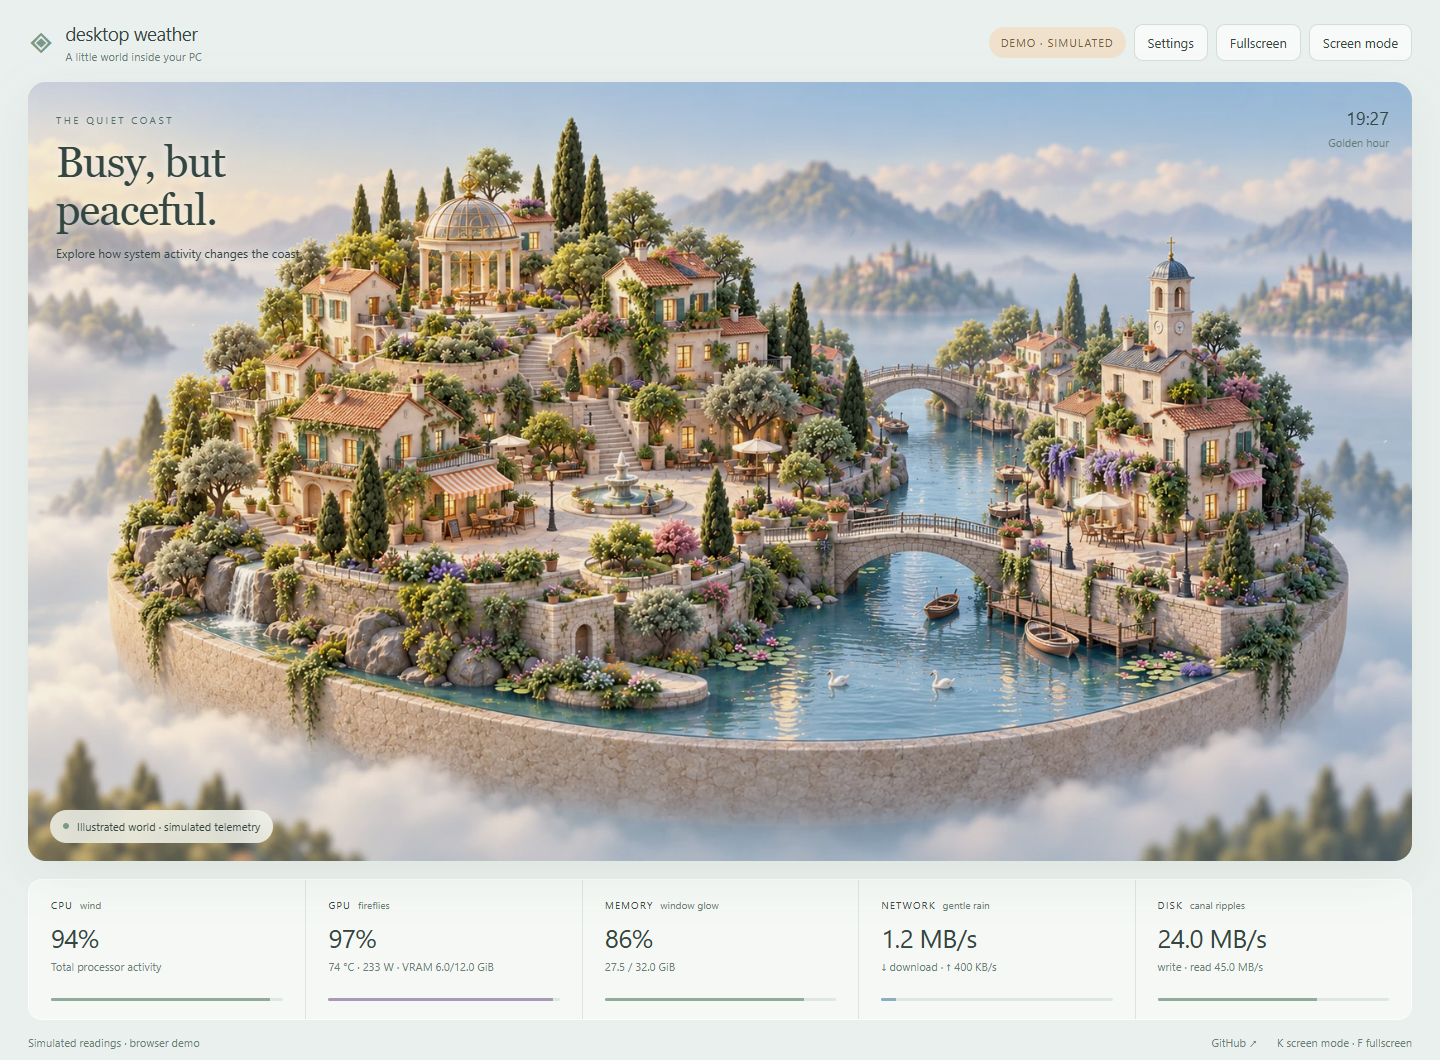
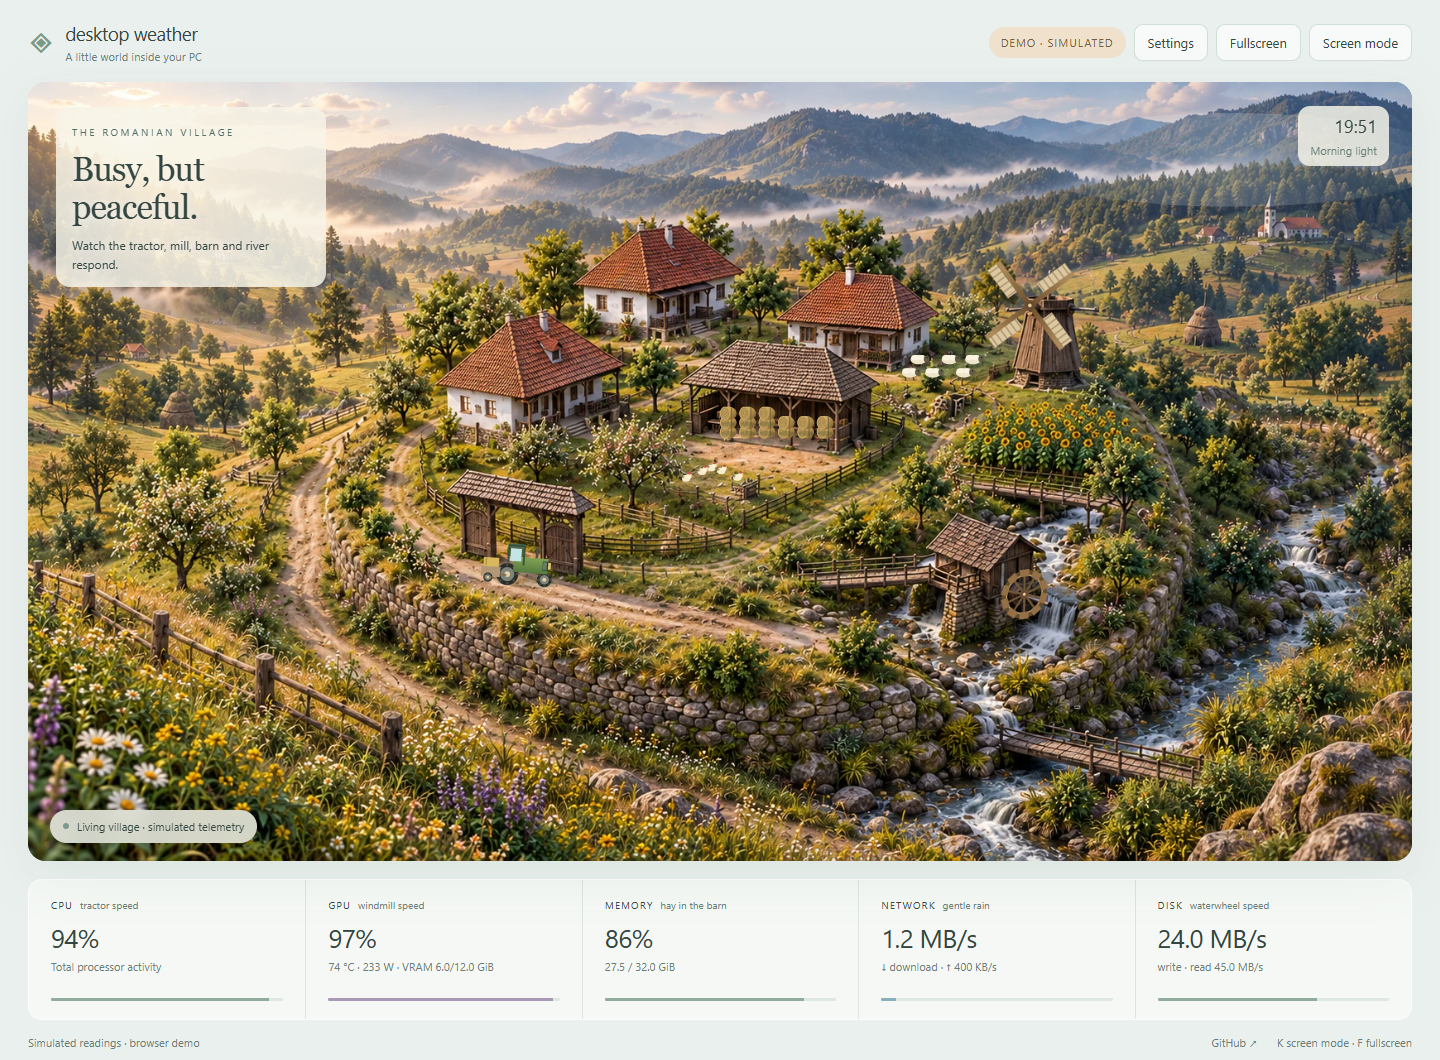
Add animated Romanian countryside with day and night scenes

diff --git a/public/app.js b/public/app.js
@@ -1,4 +1,5 @@
 import { clamp, number, formatPercent, formatRate, demoSnapshot, sceneActivity } from './model.mjs';
+import { createRuralRenderer } from './rural.mjs';
 const $ = id => document.getElementById(id);
 const params = new URLSearchParams(location.search);
 const local = ['localhost', '127.0.0.1'].includes(location.hostname);
@@ -19,8 +20,7 @@ let inScreenMode = params.get('screen') === '1', fetchBusy = false;
 const media = matchMedia('(prefers-reduced-motion: reduce)');
 const scene = $('scene'), canvas = $('weather'), context = canvas.getContext('2d');
 let width = 1, height = 1, lastDraw = 0, frameCount = 0;
-const particles = Array.from({ length: 80 }, (_, i) => ({ x: ((i * 47 + 17) % 101) / 101, y: ((i * 31 + 3) % 97) / 97, phase: i * 1.7 }));
-const windows = [[.232,.311],[.225,.33],[.264,.369],[.266,.397],[.46,.289],[.465,.32],[.498,.363],[.479,.393],[.217,.466],[.218,.493],[.321,.54],[.358,.507],[.408,.515],[.702,.499],[.804,.457],[.824,.431],[.835,.488],[.806,.601],[.776,.584],[.771,.519]];
+const rural = createRuralRenderer(context, scenePoint, () => Math.min(width / 1672, height / 941));
 
 function persist() {
   try { localStorage.setItem('desktop-weather-settings', JSON.stringify({ light: settings.light, quality: settings.quality, rainScale: settings.rainScale, gpuIndex: settings.gpuIndex, showMetrics: settings.showMetrics })); } catch { }
@@ -45,6 +45,8 @@ function applyLight() {
   const hour = new Date().getHours();
   const light = settings.light === 'auto' ? hour >= 7 && hour < 17 ? 'morning' : hour >= 17 && hour < 20 ? 'dusk' : 'night' : settings.light;
   scene.dataset.light = light;
+  const art = light === 'night' ? 'assets/romanian-night.webp' : 'assets/romanian-day.webp';
+  for (const id of ['village', 'landscape-fill']) if ($(id).getAttribute('src') !== art) $(id).src = art;
   $('clock').textContent = new Intl.DateTimeFormat(undefined, { hour: '2-digit', minute: '2-digit' }).format(new Date());
   $('time-label').textContent = { morning: 'Morning light', dusk: 'Golden hour', night: 'Moonlight' }[light];
 }
@@ -76,10 +78,10 @@ function renderReadings() {
   $('source').dataset.state = isDemo ? 'demo' : connection;
   $('source').textContent = isDemo ? 'Demo · simulated' : connection === 'live' ? 'Live · local' : connection === 'connecting' ? 'Connecting' : 'Unavailable';
   $('footer-source').textContent = isDemo ? 'Simulated readings · browser demo' : 'Local telemetry · no account · no cloud';
-  $('scene-status').textContent = isDemo ? 'Illustrated world · simulated telemetry' : connection === 'live' ? 'Connected to this computer · updates every 3s' : 'No live data · scenery resting';
+  $('scene-status').textContent = isDemo ? 'Living village · simulated telemetry' : connection === 'live' ? 'Connected to this computer · updates every 3s' : 'No live data · scenery resting';
   const title = isDemo ? { idle: 'A quiet morning.', game: 'A little more life.', render: 'Busy, but peaceful.', download: 'A passing shower.' }[settings.mode] : connection === 'live' ? 'Your PC, at its own pace.' : 'A small world.\nWaiting for a heartbeat.';
   $('scene-title').textContent = title;
-  $('scene-description').textContent = isDemo ? 'Explore how system activity changes the coast.' : connection === 'live' ? 'Real readings. Gentle changes. Everything stays local.' : 'Start the local companion to see real readings.';
+  $('scene-description').textContent = isDemo ? 'Watch the tractor, mill, barn and river respond.' : connection === 'live' ? 'Real readings. Gentle changes. Everything stays local.' : 'Start the local companion to see real readings.';
   const options = data?.gpu?.devices || [];
   const desired = options.length ? options.map(g => `${g.index}`).join(',') : 'none';
   if ($('gpu-device').dataset.devices !== desired) {
@@ -116,9 +118,8 @@ function resize() {
   lastDraw = 0;
 }
 function scenePoint(x, y) {
-  const imageRatio = 1672 / 941, scale = Math.max(width / 1672, height / 941);
-  const imageWidth = 1672 * scale, imageHeight = imageWidth / imageRatio;
-  return [x * imageWidth + (width - imageWidth) * (width < 480 ? .54 : .5), y * imageHeight + (height - imageHeight) * .5];
+  const scale = Math.min(width / 1672, height / 941);
+  return [x * 1672 * scale + (width - 1672 * scale) / 2, y * 941 * scale + (height - 941 * scale) / 2];
 }
 function draw(now) {
   requestAnimationFrame(draw);
@@ -126,44 +127,10 @@ function draw(now) {
   const still = settings.quality === 'still' || media.matches;
   const interval = still ? 1000 : settings.quality === 'eco' ? 1000 / 15 : 1000 / 30;
   if (now - lastDraw < interval) return;
-  const dt = Math.min(.1, (now - lastDraw) / 1000 || .03); lastDraw = now; frameCount++;
-  for (const key of Object.keys(activity)) activity[key] += (target[key] - activity[key]) * (still ? 1 : .06);
+  const dt = Math.min(.15, (now - lastDraw) / 1000 || .03); lastDraw = now; frameCount++;
+  for (const key of Object.keys(activity)) activity[key] += (target[key] - activity[key]) * (still ? 1 : .12);
   context.clearRect(0, 0, width, height);
-  const night = scene.dataset.light === 'night', time = still ? 0 : now / 1000;
-  // Anchored highlights follow the illustrated windows; they are not new 3D geometry.
-  windows.slice(0, Math.round(activity.glow * windows.length)).forEach(([x, y]) => {
-    const [px, py] = scenePoint(x, y), radius = Math.max(4, width * .009);
-    const gradient = context.createRadialGradient(px, py, 0, px, py, radius);
-    gradient.addColorStop(0, night ? '#ffd69ba0' : '#ffe6b54a'); gradient.addColorStop(1, '#ffd69b00');
-    context.fillStyle = gradient; context.fillRect(px - radius, py - radius, radius * 2, radius * 2);
-  });
-  const fireflies = Math.round(activity.fireflies * 22);
-  for (let i = 0; i < fireflies; i++) {
-    const p = particles[i], [x, y] = scenePoint(.22 + p.x * .64 + Math.sin(time * .25 + p.phase) * .015, .39 + p.y * .28 + Math.cos(time * .4 + p.phase) * .008);
-    context.fillStyle = night ? '#ffdf9fb0' : '#fff3cbad'; context.shadowColor = '#eac187'; context.shadowBlur = night ? 9 : 3;
-    context.beginPath(); context.arc(x, y, 1.5 + Math.sin(time + p.phase) * .4, 0, Math.PI * 2); context.fill();
-  }
-  context.shadowBlur = 0;
-  if (activity.rain > .025) {
-    context.strokeStyle = night ? '#b7d4e258' : '#56879b46'; context.lineWidth = 1;
-    for (let i = 0; i < Math.round(activity.rain * 65); i++) {
-      const p = particles[i]; if (!still) p.y = (p.y + dt * (.14 + activity.rain * .08)) % 1;
-      const x = width * (.52 + p.x * .46), y = p.y * height;
-      context.beginPath(); context.moveTo(x, y); context.lineTo(x - 2 - activity.wind * 3, y + 7); context.stroke();
-    }
-  }
-  for (let i = 0; i < 3 + Math.round(activity.ripples * 12); i++) {
-    const p = particles[i + 30], [x, y] = scenePoint(.6 + p.x * .11, .64 + p.y * .16);
-    const phase = (time * (.2 + activity.ripples * .3) + p.phase) % 1;
-    context.strokeStyle = `rgba(223,239,230,${(1 - phase) * .25})`;
-    context.beginPath(); context.ellipse(x, y, 2 + phase * 12, 1 + phase * 3, 0, 0, Math.PI * 2); context.stroke();
-  }
-  // Soft floating seed motes express CPU-driven wind, never inferred temperature.
-  for (let i = 0; i < Math.round(activity.wind * 16); i++) {
-    const p = particles[i + 55], x = ((p.x + time * (.008 + activity.wind * .012)) % 1) * width;
-    const y = (.2 + p.y * .55 + Math.sin(time + p.phase) * .008) * height;
-    context.fillStyle = '#f7edc780'; context.beginPath(); context.ellipse(x, y, 2.2, 1, -.5, 0, Math.PI * 2); context.fill();
-  }
+  rural.render({activity,dt,time:still ? 0 : now / 1000,still,night:scene.dataset.light === 'night',width,height});
 }
 function toggleSettings() { $('settings').hidden = !$('settings').hidden; $('settings-button').setAttribute('aria-expanded', String(!$('settings').hidden)); }
 async function fullscreen() {
@@ -189,6 +156,6 @@ document.addEventListener('keydown', event => {
 document.addEventListener('visibilitychange', () => { if (!document.hidden) { lastDraw = 0; sample(); } });
 new ResizeObserver(resize).observe(scene);
 media.addEventListener('change', resize);
-window.desktopWeather = { get state() { return { mode: settings.mode, connection, activity: { ...target }, frames: frameCount }; } };
+window.desktopWeather = { get state() { return { mode: settings.mode, connection, activity: { ...target }, frames: frameCount, animation: rural.stats }; } };
 updateSettings(); screenMode(inScreenMode); renderReadings(); sample();
 setInterval(sample, 3000); requestAnimationFrame(draw);

diff --git a/public/index.html b/public/index.html
@@ -15,20 +15,21 @@
       <a class="brand" href="./"><span class="brand-mark" aria-hidden="true">◈</span><span>desktop weather<small>A little world inside your PC</small></span></a>
       <div class="toolbar-actions"><span id="source" class="status" role="status">Connecting</span><button id="settings-button" aria-expanded="false" aria-controls="settings">Settings</button><button id="fullscreen">Fullscreen</button><button id="hide-ui" title="Press K to restore controls">Screen mode</button></div>
     </header>
-    <section id="scene" class="scene" aria-label="A Mediterranean miniature village animated by system activity">
-      <img id="village" src="assets/village.webp" alt="A peaceful terraced village, gardens and footbridges around a blue canal" width="1672" height="941">
+    <section id="scene" class="scene" aria-label="A circular Romanian village animated by system activity">
+      <img id="landscape-fill" src="assets/romanian-day.webp" alt="" aria-hidden="true">
+      <img id="village" src="assets/romanian-day.webp" alt="A circular Romanian village with traditional houses, a carved wooden gate, orchard, barn, windmill and stream" width="1672" height="941">
       <div class="light-wash" aria-hidden="true"></div>
       <canvas id="weather" aria-hidden="true"></canvas>
-      <div class="scene-heading"><span class="eyebrow">THE QUIET COAST</span><h1 id="scene-title">A small world.<br>A living connection.</h1><p id="scene-description">Waiting for your computer’s heartbeat.</p></div>
+      <div class="scene-heading"><span class="eyebrow">THE ROMANIAN VILLAGE</span><h1 id="scene-title">A small world.<br>A living connection.</h1><p id="scene-description">Waiting for your computer’s heartbeat.</p></div>
       <div class="scene-note"><span class="pulse" aria-hidden="true"></span><span id="scene-status">No readings yet</span></div>
       <div class="scene-clock"><span id="clock"></span><small id="time-label">Morning light</small></div>
     </section>
     <section id="readings" class="readings" aria-label="System telemetry">
-      <article class="reading"><span class="metric-label">CPU <small>wind</small></span><strong id="cpu">—</strong><span id="cpu-detail" class="metric-detail">Waiting for a sample</span><div class="meter"><span id="cpu-bar"></span></div></article>
-      <article class="reading"><span class="metric-label">GPU <small>fireflies</small></span><strong id="gpu">—</strong><span id="gpu-detail" class="metric-detail">No GPU reading</span><div class="meter"><span id="gpu-bar"></span></div></article>
-      <article class="reading"><span class="metric-label">MEMORY <small>window glow</small></span><strong id="ram">—</strong><span id="ram-detail" class="metric-detail">No memory reading</span><div class="meter"><span id="ram-bar"></span></div></article>
+      <article class="reading"><span class="metric-label">CPU <small>tractor speed</small></span><strong id="cpu">—</strong><span id="cpu-detail" class="metric-detail">Waiting for a sample</span><div class="meter"><span id="cpu-bar"></span></div></article>
+      <article class="reading"><span class="metric-label">GPU <small>windmill speed</small></span><strong id="gpu">—</strong><span id="gpu-detail" class="metric-detail">No GPU reading</span><div class="meter"><span id="gpu-bar"></span></div></article>
+      <article class="reading"><span class="metric-label">MEMORY <small>hay in the barn</small></span><strong id="ram">—</strong><span id="ram-detail" class="metric-detail">No memory reading</span><div class="meter"><span id="ram-bar"></span></div></article>
       <article class="reading"><span class="metric-label">NETWORK <small>gentle rain</small></span><strong id="network">—</strong><span id="network-detail" class="metric-detail">No network reading</span><div class="meter"><span id="network-bar"></span></div></article>
-      <article class="reading"><span class="metric-label">DISK <small>canal ripples</small></span><strong id="disk">—</strong><span id="disk-detail" class="metric-detail">No disk reading</span><div class="meter"><span id="disk-bar"></span></div></article>
+      <article class="reading"><span class="metric-label">DISK <small>waterwheel speed</small></span><strong id="disk">—</strong><span id="disk-detail" class="metric-detail">No disk reading</span><div class="meter"><span id="disk-bar"></span></div></article>
     </section>
     <footer class="footer"><span id="footer-source">Local telemetry · no account · no cloud</span><span><a href="https://github.com/samoxis/desktop-weather" target="_blank" rel="noopener noreferrer">GitHub ↗</a><span class="keyboard-hint">K screen mode · F fullscreen</span></span></footer>
     <aside id="settings" class="settings" hidden aria-label="Display settings">

diff --git a/public/style.css b/public/style.css
@@ -6,3 +6,22 @@ body.screen-mode #app{padding:0;max-width:none}body.screen-mode .toolbar,body.sc
 @media(max-width:850px){#app{padding:16px}.toolbar{flex-wrap:wrap}.toolbar-actions{gap:6px;flex-wrap:wrap}.readings{grid-template-columns:repeat(3,minmax(0,1fr))}.reading{padding:14px}.reading:nth-child(4){border-left:0}.reading:nth-child(n+4){border-top:1px solid var(--line)}.keyboard-hint{display:none}.scene-heading{left:18px;top:18px;max-width:220px}.scene-heading p{display:none}.scene-clock{font-size:15px;right:17px;top:19px}body.screen-mode .readings{grid-template-columns:repeat(5,minmax(0,1fr));width:calc(100% - 24px)}body.screen-mode .reading{padding:9px}body.screen-mode .reading:nth-child(n+4){border-top:0;border-left:1px solid var(--line)}body.screen-mode .metric-detail,body.screen-mode .metric-label small{display:none}body.screen-mode .reading strong{font-size:18px}}
 @media(max-width:480px){#app{padding:12px}.toolbar-actions{width:100%;justify-content:space-between}.toolbar-actions button{padding:8px;font-size:11px}.status{font-size:9px;padding:7px 9px}.scene{aspect-ratio:4/5}.scene>img{object-position:53% center}.scene-heading{max-width:200px}h1{font-size:27px}.scene-clock{top:auto;bottom:57px}.scene-note{bottom:14px;left:14px;font-size:10px}.readings{grid-template-columns:repeat(2,minmax(0,1fr))}.reading:nth-child(3),.reading:nth-child(5){border-left:0;border-top:1px solid var(--line)}.reading:nth-child(4){border-left:1px solid var(--line)}.reading:last-child{grid-column:1/-1}.reading strong{font-size:23px}.footer{flex-direction:column;line-height:1.6}.settings{right:12px;top:125px;max-height:calc(100dvh - 140px)}body.screen-mode .readings{grid-template-columns:repeat(3,minmax(0,1fr))}body.screen-mode .reading:nth-child(4){border-left:0}body.screen-mode .reading:nth-child(n+4){border-top:1px solid var(--line)}body.screen-mode .reading:last-child{grid-column:auto}body.screen-mode .scene>img{object-position:54% center}body.screen-mode .settings{top:60px;max-height:calc(100dvh - 80px)}}
 @media(prefers-reduced-motion:reduce){*,*::before,*::after{transition:none!important}}
+
+/* Preserve the entire telemetry diorama on portrait and ultrawide displays. */
+.scene{background:radial-gradient(ellipse at 50% 50%,#c9def2,#a4c2e0)}
+.scene>img,body.screen-mode .scene>img{object-fit:contain;object-position:center}
+.scene-heading{background:#f7f4e8d6;padding:12px 16px;border-radius:14px;max-width:270px}
+.scene-heading h1{font-size:clamp(20px,2.5vw,34px)}
+.scene[data-light=night] .scene-heading{background:#243948d9}
+.scene[data-light=night]{background:#293e59}
+.metric-label small{font-weight:500}
+@media(max-width:480px){.scene-heading{max-width:215px}.scene-heading h1{font-size:23px}.scene-clock{bottom:57px}}
+
+/* The surrounding landscape fills unusual screen ratios without cropping the village. */
+.scene>#landscape-fill,body.screen-mode .scene>#landscape-fill{object-fit:cover;filter:blur(18px);transform:scale(1.08);opacity:.8;z-index:-1}
+.scene[data-light=night] #village{filter:none}
+.scene[data-light=night] #weather{filter:brightness(.78) saturate(.75)}
+.scene[data-light=night] .light-wash{background:transparent}
+.scene[data-light=night] #landscape-fill{filter:blur(18px)}
+.scene-clock{background:#f7f4e8d6;padding:8px 12px;border-radius:12px}
+.scene[data-light=night] .scene-clock{background:#243948d9}

diff --git a/README.md b/README.md
@@ -2,25 +2,27 @@
 
 **Turn your PC sensor screen into a living miniature world.**
 
-A quiet Mediterranean village that responds to CPU, GPU, memory, network and disk activity. Built for the small screen inside your case, the extra display on your desk, or a browser tab you leave open.
+A lively circular Romanian village that responds to CPU, GPU, memory, network and disk activity. Built for the small screen inside your case, the extra display on your desk, or a browser tab you leave open.
 
 ![Desktop Weather — illustrated village with animated telemetry](docs/preview.png)
 
 [Try the browser demo](https://samoxis.github.io/desktop-weather/?demo=idle) · [Telemetry explained](docs/telemetry.md) · [Research & decisions](docs/research.md) · [Contribute a scene](CONTRIBUTING.md)
 
-> **v0.1 is an early, working prototype:** an illustrated background with animated layers, not an explorable 3D city. Browser demos use clearly labeled simulated values. Live readings require the local companion.
+> **v0.2 is an early, working prototype:** an illustrated background with animated layers, not an explorable 3D city. Browser demos use clearly labeled simulated values. Live readings require the local companion.
 
 ## What moves?
 
 | Your computer | The little world |
 |---|---|
-| CPU utilization | Windborne seed motes |
-| GPU utilization | Fireflies in the gardens |
-| Memory utilization | Additional window glows |
+| CPU utilization | Tractor speed and dust on the village road |
+| GPU utilization | Wooden windmill rotation |
+| Memory utilization | Hay bales fill the barn courtyard |
 | Download + upload rate | Gentle rain, with a configurable scale |
-| Disk read + write rate | Ripples on the canal |
+| Disk read + write rate | Waterwheel rotation and river ripples |
 
-Morning, golden-hour and moonlight appearances are selectable. Automatic lighting follows your local clock, without location lookup. Usage drives the scene; **it is not a temperature gauge or thermal alarm**. The GPU temperature is shown separately.
+Birds, grazing sheep and wandering chickens add ambient life; these are decorative and do not represent sensors. Tractor and wheel motion stop at zero or unavailable load.
+
+Morning, golden-hour and moonlight appearances are selectable. Day and night use matching cinematic Romanian countryside artwork; the exterior is filled with hills, fields, forest and a stream. Automatic lighting follows your local clock, without location lookup. Usage drives the scene; **it is not a temperature gauge or thermal alarm**. The GPU temperature is shown separately.
 
 ## Run locally
 
@@ -69,7 +71,7 @@ Network defaults to the busiest measured adapter, rather than adding physical an
 
 Any screen recognized as a monitor by the OS can show the browser: HDMI, DisplayPort or a USB graphics display. Layouts were checked at 800×480, 480×800 and 1920×480, as well as regular desktop and small mobile widths. This is browser-layout validation, not a physical screen test.
 
-USB-only smart screens with proprietary protocols and cooler/AIO LCDs are **not supported in v0.1**. They need device-specific adapters. Artwork may crop on very narrow or wide displays; dedicated compositions for those formats are on the roadmap.
+USB-only smart screens with proprietary protocols and cooler/AIO LCDs are **not supported in v0.2**. They need device-specific adapters. The full circular scene stays visible at all aspect ratios; portrait and ultrawide screens use a softened landscape extension around the illustration. Dedicated compositions remain on the roadmap.
 
 ## Local by design
 

diff --git a/docs/validation.md b/docs/validation.md
@@ -1,18 +1,18 @@
-# v0.1 validation
+# v0.2 validation
 
 Local validation on Windows, 2026-10-03:
 
 - JavaScript syntax checks passed.
-- All 10 Node.js tests passed: CPU aggregation and warmup, counter resets, network selection, unsupported NVIDIA fields, null semantics, source freshness, selected-GPU scene response and HTTP security/static serving.
+- All 12 Node.js tests passed: core telemetry/security checks plus renderer motion, still mode and missing-data behavior.
 - Live CPU and memory readings verified through the local HTTP endpoint and browser.
 - Live Windows network/disk counter deltas verified; these were not forced with a benchmark or stress test.
 - Existing NVIDIA driver queried successfully for utilization, temperature, used/total VRAM, power and fan percentage. No driver or HWiNFO configuration changes.
 - Headless Microsoft Edge interaction checks passed at 1440×1060, 800×480, 480×800, 1920×480 and 320×640 without horizontal overflow.
 - Demo source switching, lighting, screen-mode keyboard recovery and GPU-driven scene state verified.
-- Eco mode drew 30 frames during a 2.1-second observation, consistent with the 15 FPS cap. This is a frame-count check, not a full GPU/CPU/memory benchmark.
+- Eco mode drew 31 frames during a 2.1-second observation, consistent with the 15 FPS cap. This is a frame-count check, not a full GPU/CPU/memory benchmark.
 - Simulated collector HTTP failure changed the source to unavailable and cleared the readings; no silent demo fallback.
-- Reduced-motion/still-mode controls exercised. No unhandled browser script errors.
+- Browser checks verified tractor, windmill and waterwheel movement, the separate night artwork, and frozen machinery in Still mode. No unhandled browser script errors.
 
-The README image is a screenshot of the actual browser prototype using labeled simulated readings. The background itself is AI-generated illustration.
+The README image and night preview are screenshots of the actual browser prototype using labeled simulated readings. Day/night backgrounds are AI-generated raster artwork with procedural Canvas animation overlays; this is not a live 3D game. The full village remains visible while a softened landscape extension fills unusual screen ratios.
 
 Not physically tested: internal/USB displays, AMD/Intel GPUs, multiple NVIDIA GPUs, other operating systems, thermal adapters, native packaging, Windows auto-start. The GitHub CI matrix checks core code on Windows and Linux but does not establish hardware support.

diff --git a/docs/art-direction.md b/docs/art-direction.md
@@ -1,0 +1,11 @@
+# Romanian countryside scene
+
+Approved direction: realistic game materials, a circular Romanian village on a raised stone terrace, surrounded by a continuous countryside. Morning and cinematic night versions share the same geometry. Neither popularity research nor approval predicts GitHub stars.
+
+Generated with the built-in OpenAI image generation tool. Production assets: `public/assets/romanian-day.webp` and `public/assets/romanian-night.webp`. These are raster backgrounds. Tractor, mill blades, waterwheel, hay, weather and animals are Canvas overlays.
+
+Day prompt: One full-bleed wide 16:9 scene based on the approved middle concept. Romanian circular raised stone terrace, realistic materials and morning light. Countryside fills every edge with hills, forests, meadows, paths and a river. Three houses, central barn, carved gate, upper-right windmill and riverside mill. Bare mill axles, empty road and barn courtyard for animation compositing. No text, labels, UI, tractor, hay, foreground animals, windmill blades or waterwheel. No cartoon styling.
+
+Night edit prompt: Change only lighting to cinematic blue-hour night. Preserve camera, framing, buildings, paths, terrace, axles, vegetation, mountains and stream for shared animation coordinates. Cool blue sky, soft moonlight, warm windows and sparse practical lanterns. Keep landscape visible. No added UI, text or foreground machinery.
+
+The extended portrait/ultrawide background is a blurred cover of the same artwork, behind the complete scene. Purpose-built layouts remain future work.
